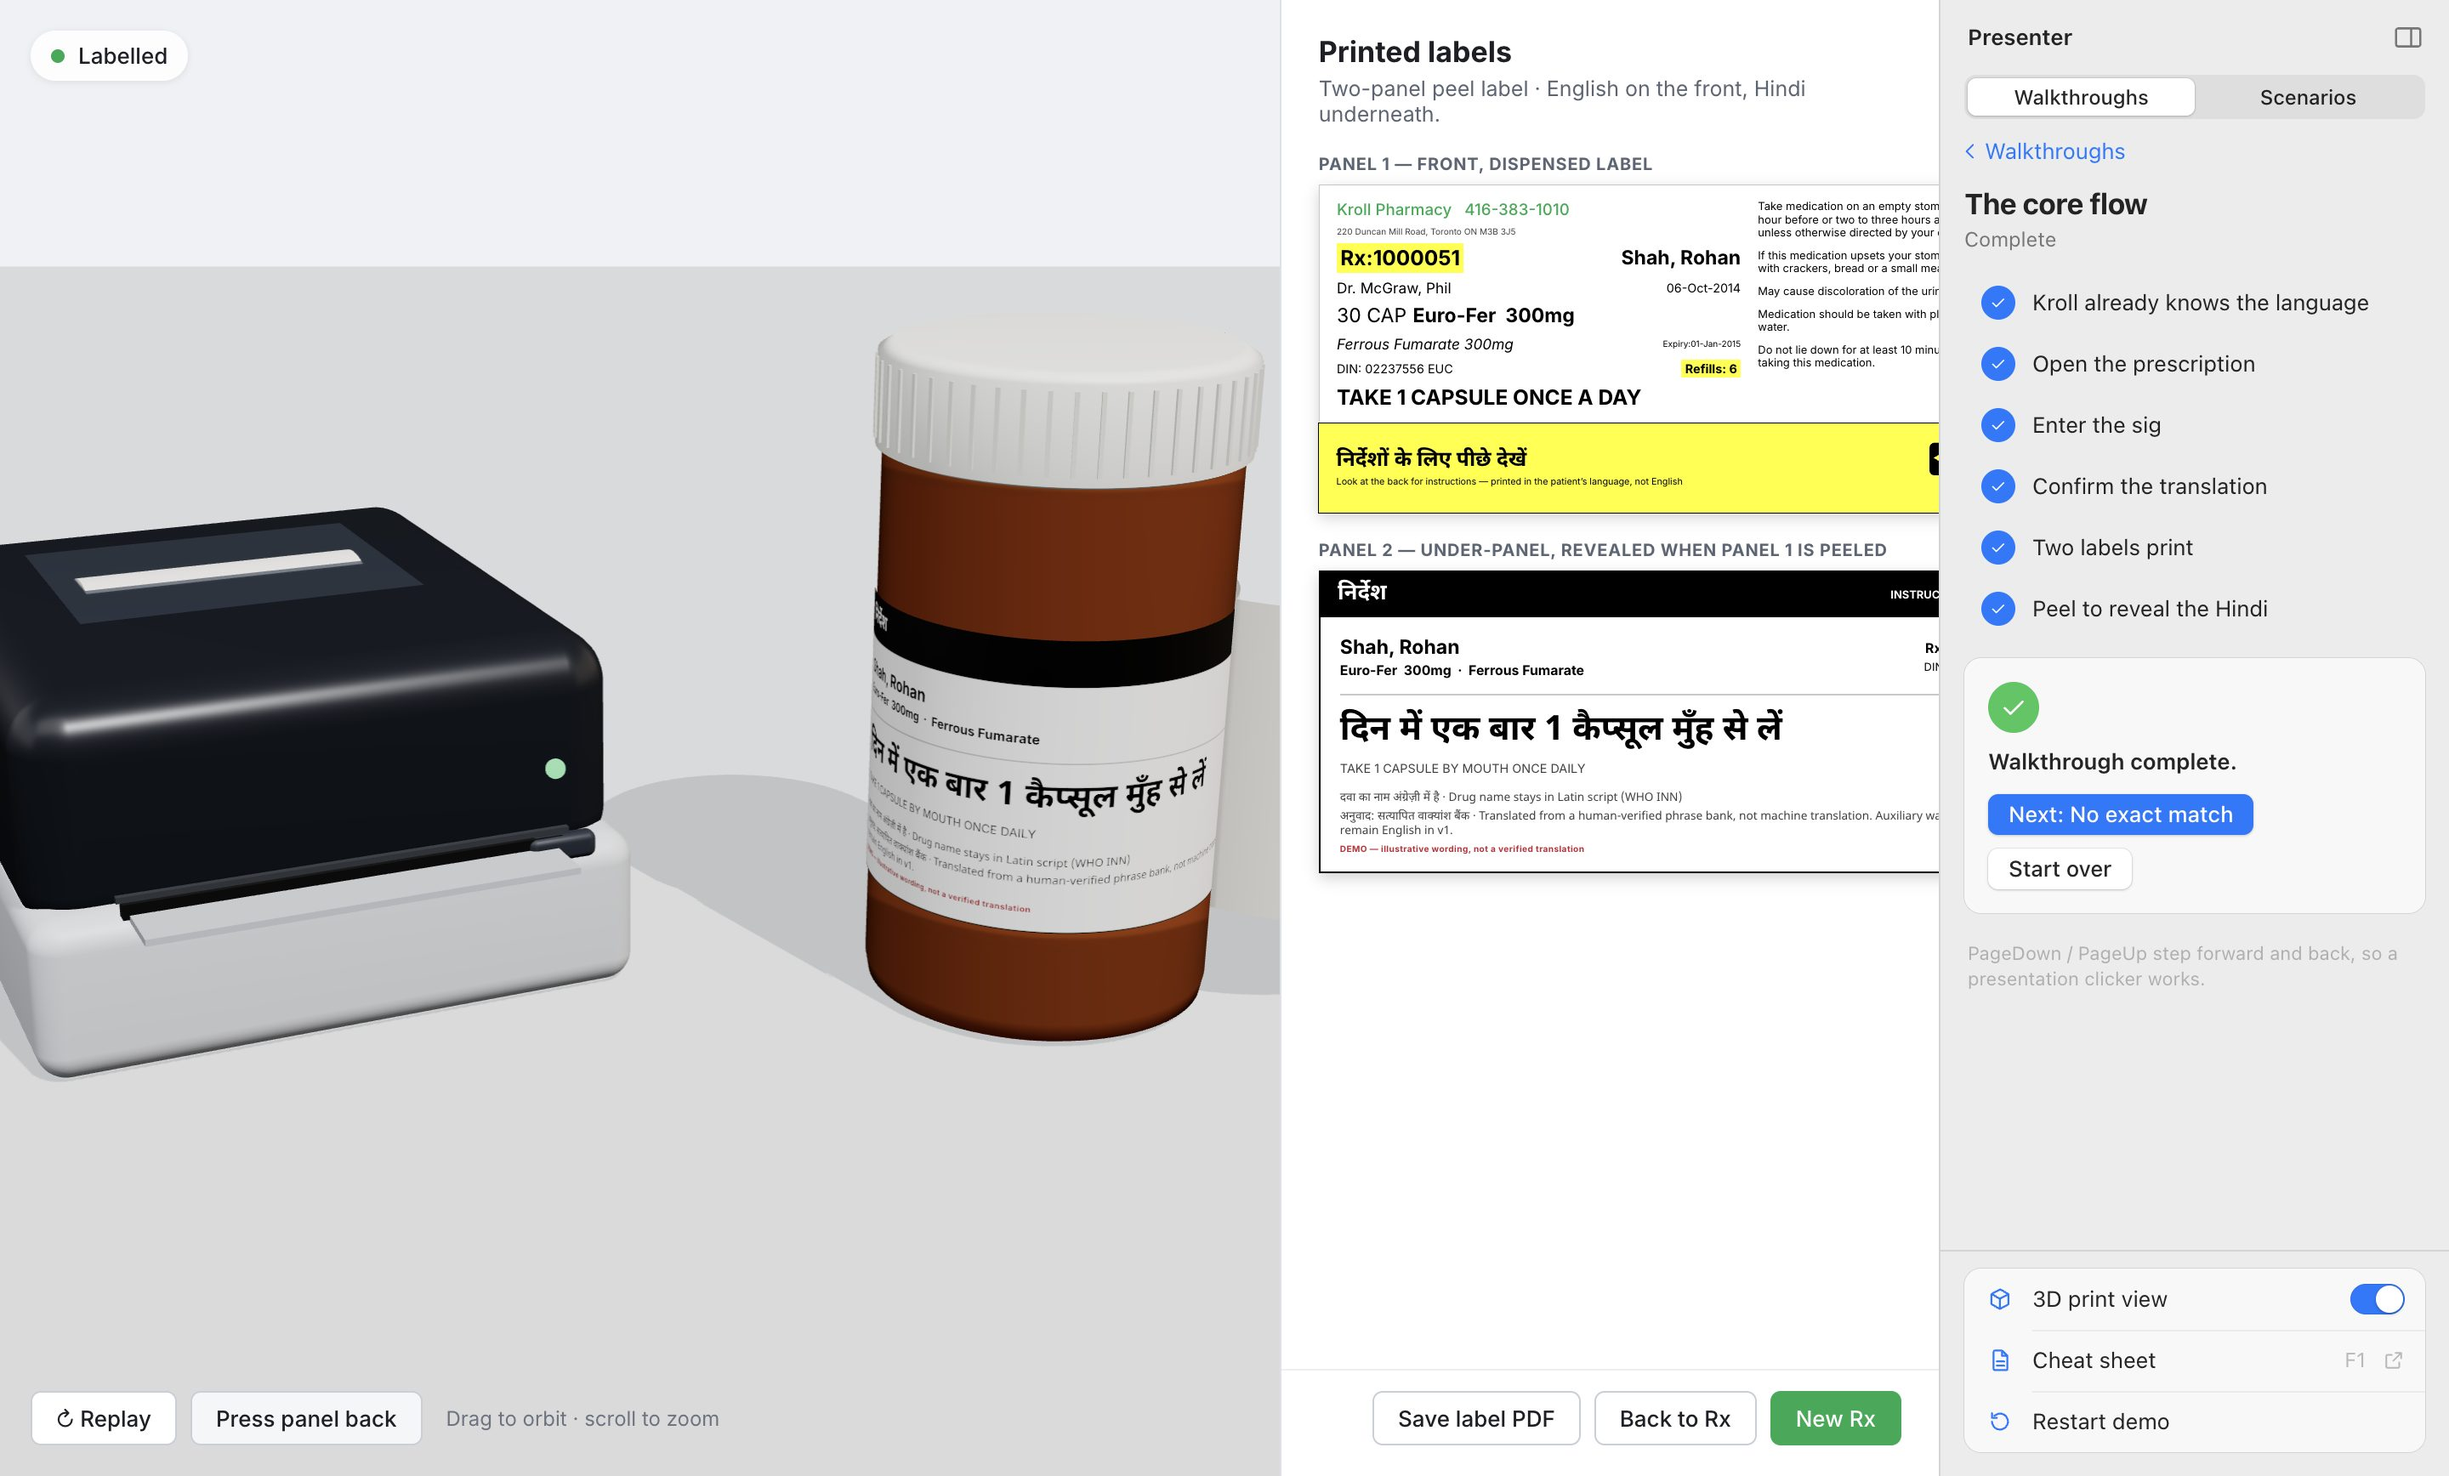
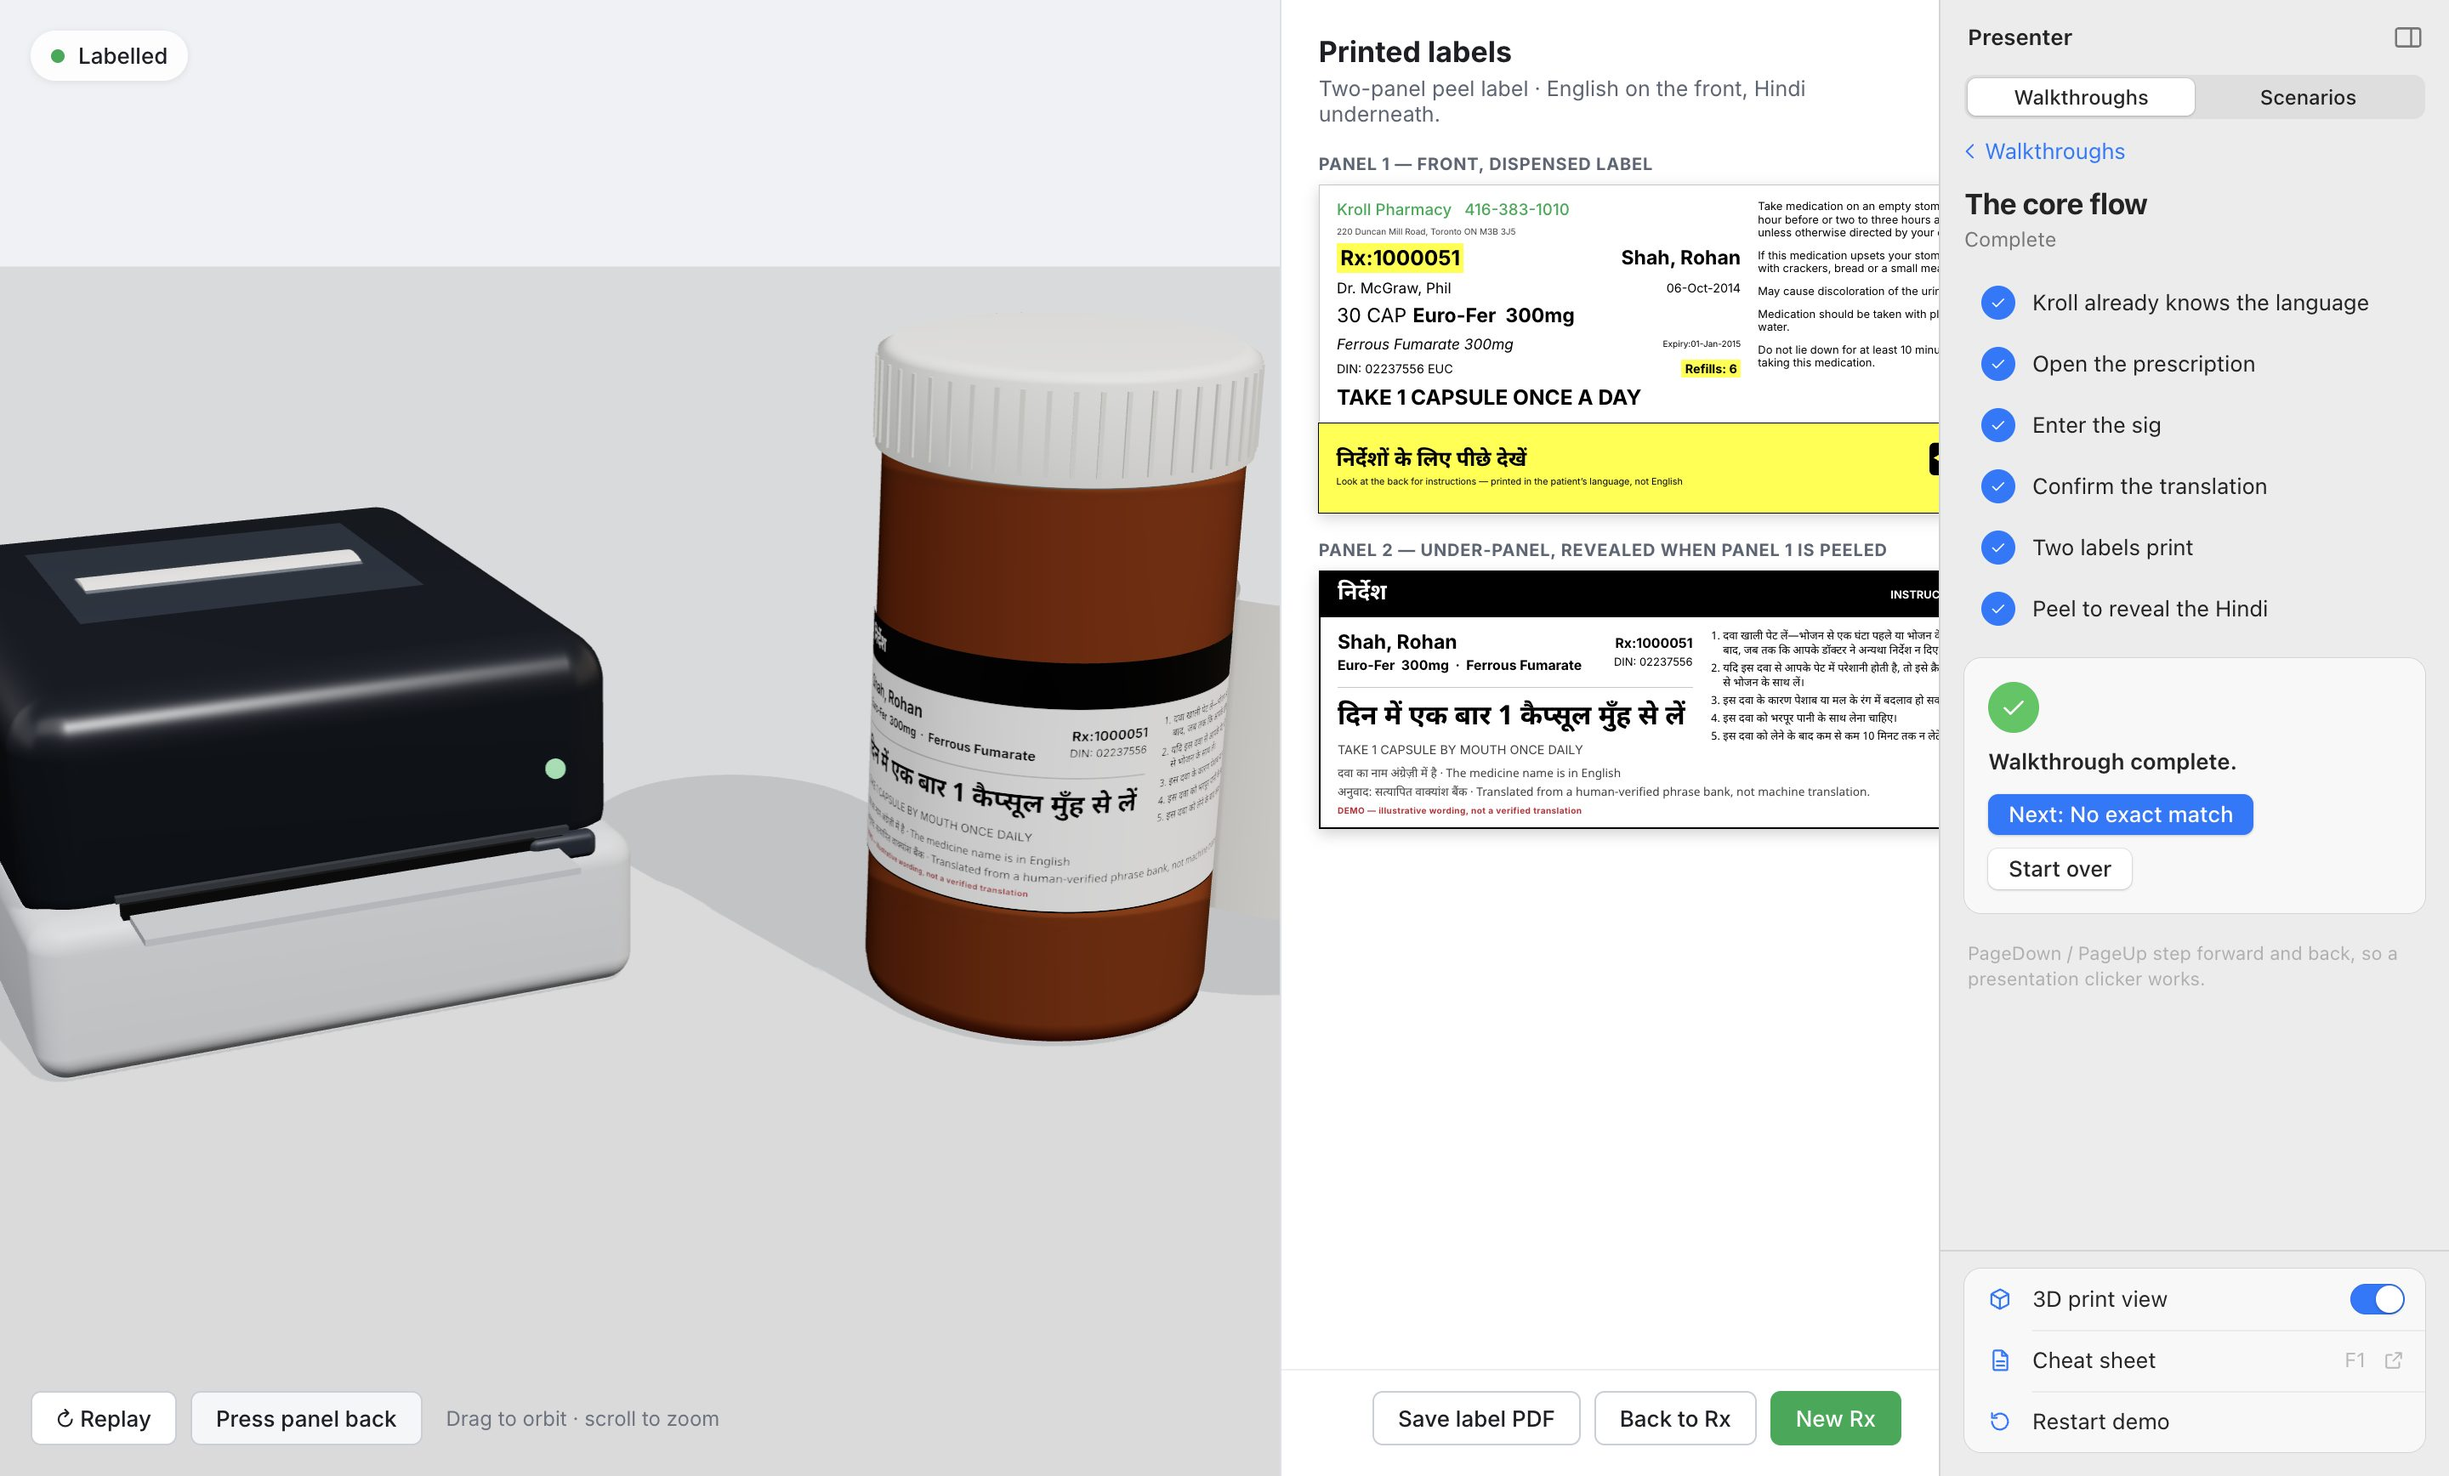
fix: say the medicine name is in English on the labels
Replace "Drug name stays in Latin script (WHO INN)" in the under-panel
footer for every translated language, matching the Figma labels, and
refresh the README screenshots that show it.

Changed region(s): [[0.5312, 0.4355, 0.7812, 0.6221], [0.3438, 0.4044, 0.5, 0.6532]]

diff --git a/src/renderer/src/data/languages.ts b/src/renderer/src/data/languages.ts
@@ -14,7 +14,7 @@ export const LANGUAGES: Language[] = [
       peel: 'اسحب',
       header: 'التعليمات',
       tag: 'INSTRUCTIONS · العربية',
-      footer: ['اسم الدواء مكتوب بالحروف اللاتينية  ·  Drug name stays in Latin script (WHO INN)'],
+      footer: ['اسم الدواء مكتوب بالحروف اللاتينية  ·  The medicine name is in English'],
     },
   },
   {
@@ -26,7 +26,7 @@ export const LANGUAGES: Language[] = [
       peel: '撕開',
       header: '用藥說明',
       tag: 'TRADITIONAL · 繁體',
-      footer: ['Drug name stays in Latin script (WHO INN)'],
+      footer: ['The medicine name is in English'],
     },
   },
   {
@@ -39,7 +39,7 @@ export const LANGUAGES: Language[] = [
       header: 'निर्देश',
       tag: 'INSTRUCTIONS · हिन्दी',
       footer: [
-        'दवा का नाम अंग्रेज़ी में है  ·  Drug name stays in Latin script (WHO INN)',
+        'दवा का नाम अंग्रेज़ी में है  ·  The medicine name is in English',
         'अनुवाद: सत्यापित वाक्यांश बैंक  ·  Translated from a human-verified phrase bank, not machine translation.',
       ],
     },
@@ -53,7 +53,7 @@ export const LANGUAGES: Language[] = [
       peel: 'کھچو',
       header: 'ہدایتاں',
       tag: 'INSTRUCTIONS · PUNJABI (SHAHMUKHI)',
-      footer: ['Drug name stays in Latin script (WHO INN)'],
+      footer: ['The medicine name is in English'],
     },
   },
   { code: 'es', name: 'Spanish', rtl: false },
